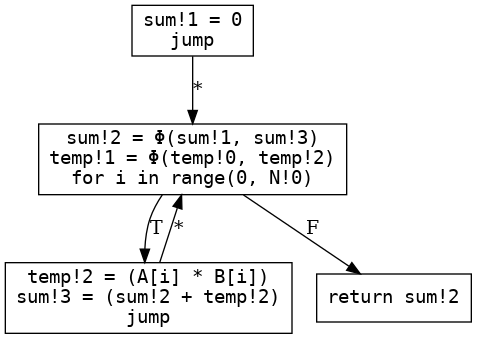
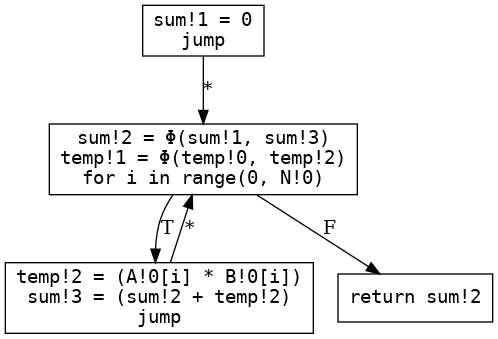
Deploying to gh-pages from  @ a099f0a00b8bb435dc7343b5871daf43df8b1fba 🚀

diff --git a/README.md b/README.md
@@ -68,7 +68,7 @@ def foo(C, D, S, N):
             sum!3 = Φ(sum!2, sum!4)
             d!2 = Φ(d!1, d!3)
             p!2 = Φ(p!1, p!3)
-            d!3 = (S[((i * D!0) + j)] - C[j])
+            d!3 = (S!0[((i * D!0) + j)] - C!0[j])
             p!3 = (d!3 * d!3)
             sum!4 = (sum!3 + p!3)
         !1!2 = (sum!3 < min_sum!2)
@@ -194,23 +194,23 @@ def foo(D, N, C, C_sqr_sum, two_C, S, S_sqr_sum):
         min_diff!1 = Φ(min_diff!0, min_diff!3)
         min_index!1 = Φ(min_index!0, min_index!3)
         !2!1 = Φ(!2!0, !2!2)
-        a_sqr_plus_b_sqr!2 = (S_sqr_sum[i] + C_sqr_sum!0)
+        a_sqr_plus_b_sqr!2 = (S_sqr_sum!0[i] + C_sqr_sum!0)
         two_a_b!2 = 0
         for j in range(0, D!0):
             two_a_b!3 = Φ(two_a_b!2, two_a_b!4)
             tmp!2 = Φ(tmp!1, tmp!3)
-            tmp!3 = (S[((i * D!0) + j)] * two_C[j])
+            tmp!3 = (S!0[((i * D!0) + j)] * two_C!0[j])
             two_a_b!4 = (two_a_b!3 + tmp!3)
         this_diff!2 = (a_sqr_plus_b_sqr!2 - two_a_b!3)
         differences!3 = Update(differences!2, i, this_diff!2)
-        min_diff!2 = differences[0]
+        min_diff!2 = differences!3[0]
         min_index!2 = 0
         for k in range(0, N!0):
             min_diff!3 = Φ(min_diff!2, min_diff!5)
             min_index!3 = Φ(min_index!2, min_index!5)
             !2!2 = Φ(!2!1, !2!3)
-            !2!3 = (differences[k] < min_diff!3)
-            min_diff!4 = differences[k]
+            !2!3 = (differences!3[k] < min_diff!3)
+            min_diff!4 = differences!3[k]
             min_index!4 = k
             min_diff!5 = MUX(!2!3, min_diff!4, min_diff!3)
             min_index!5 = MUX(!2!3, min_index!4, min_index!3)
@@ -335,8 +335,8 @@ def foo(A, B, N, num_bins):
         for j in range(0, N!0):
             result!5 = Φ(result!4, result!7)
             !2!2 = Φ(!2!1, !2!3)
-            !2!3 = (A[j] == i)
-            result!6 = Update(result!5, i, (result[i] + B[j]))
+            !2!3 = (A!0[j] == i)
+            result!6 = Update(result!5, i, (result!5[i] + B!0[j]))
             result!7 = MUX(!2!3, result!6, result!5)
     return result!4
 ```
@@ -382,7 +382,7 @@ def foo(A, B, N):
     for i in range(0, N!0):
         sum!2 = Φ(sum!1, sum!3)
         temp!1 = Φ(temp!0, temp!2)
-        temp!2 = (A[i] * B[i])
+        temp!2 = (A!0[i] * B!0[i])
         sum!3 = (sum!2 + temp!2)
     return sum!2
 ```
@@ -445,9 +445,9 @@ def foo(A, SA, B, SB):
             !2!2 = Φ(!2!1, !2!4)
             !3!2 = Φ(!3!1, !3!4)
             !4!2 = Φ(!4!1, !4!4)
-            !1!3 = (A[i] == B[j])
-            !2!3 = A[i]
-            !3!3 = A[i]
+            !1!3 = (A!0[i] == B!0[j])
+            !2!3 = A!0[i]
+            !3!3 = A!0[i]
             !4!3 = [!3!3]
             result!4 = (result!3 + !4!3)
             result!5 = MUX(!1!3, result!4, result!3)
